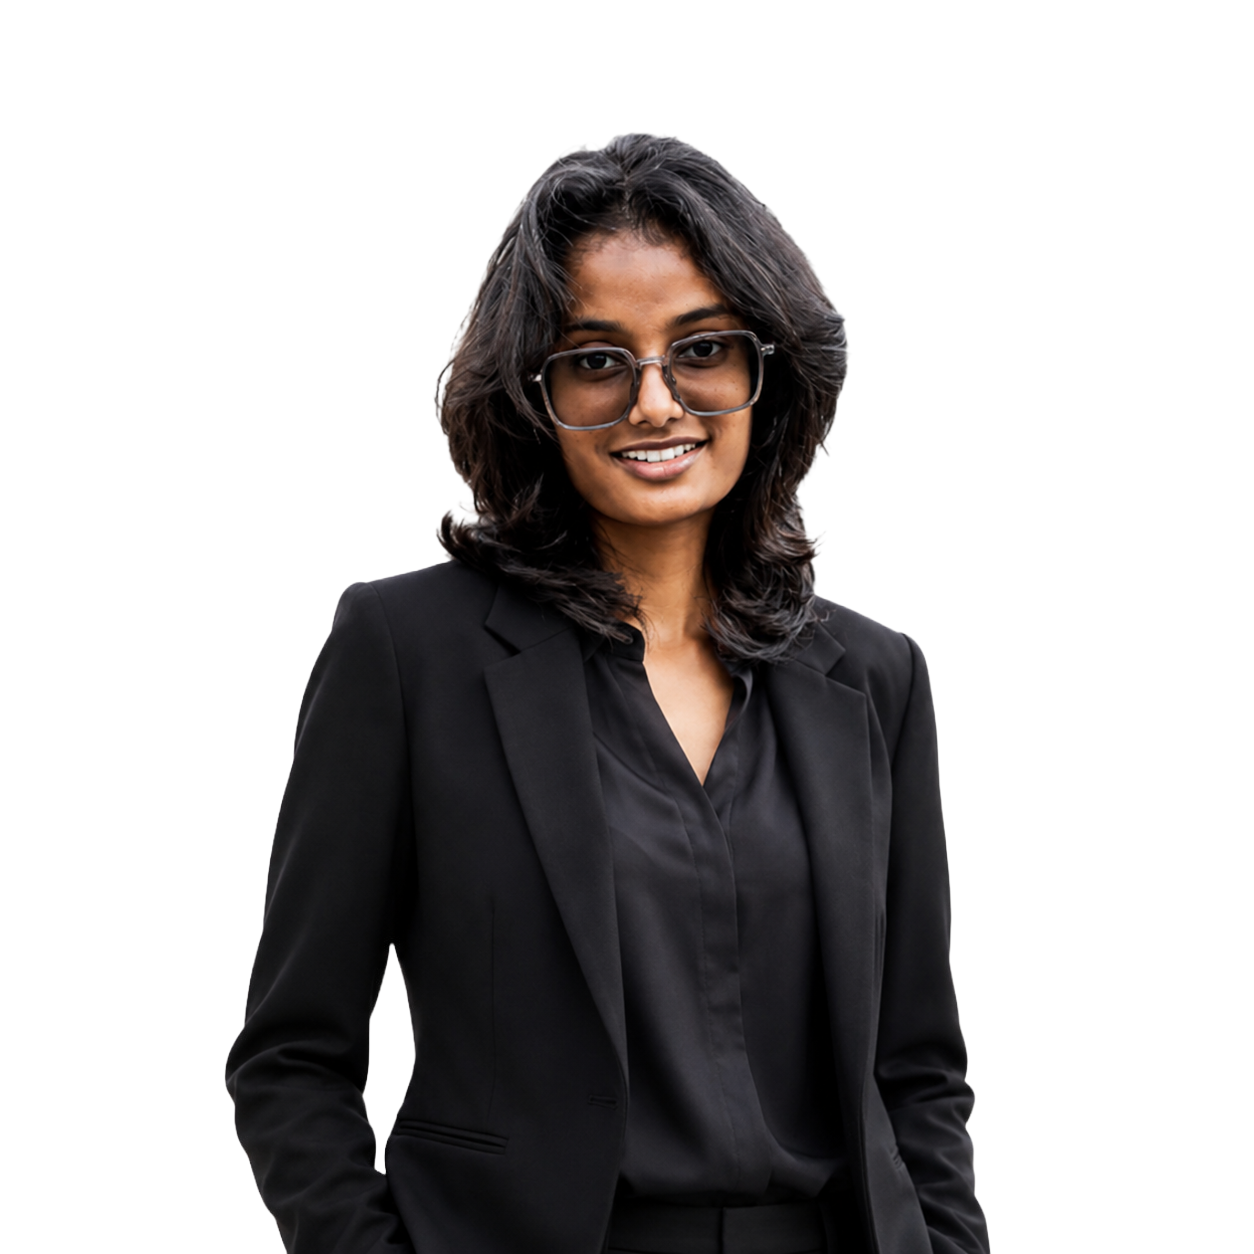
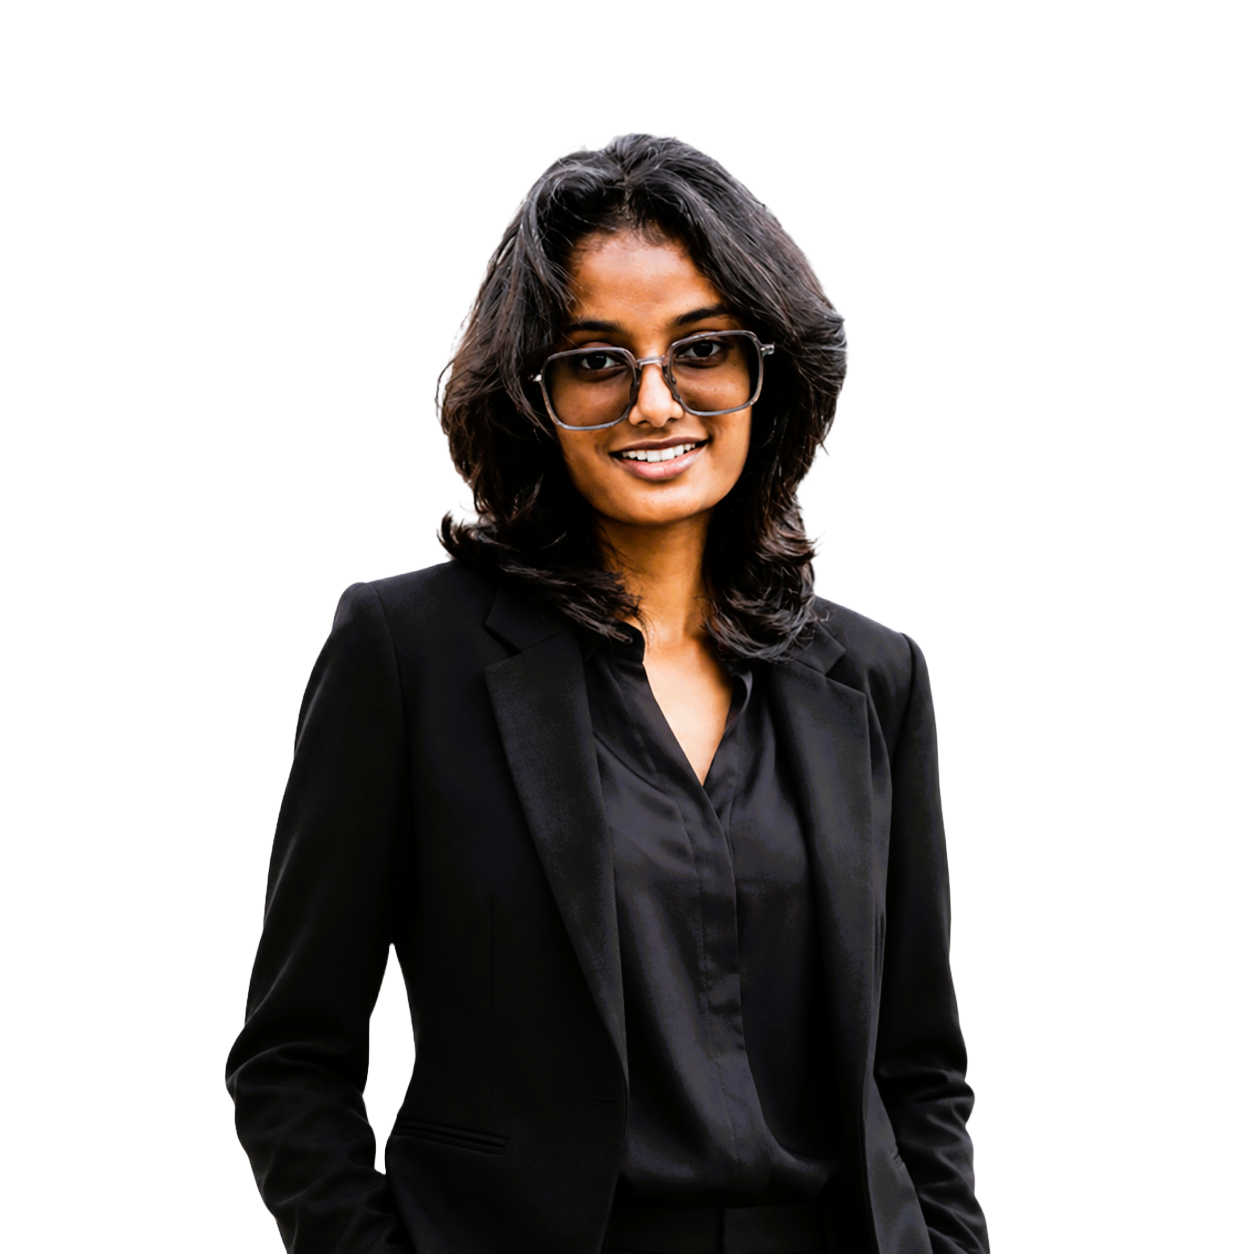
feat: added hero profile image animation

Changed region(s): [[0.4354, 0.1866, 0.622, 0.5287], [0.5598, 0.5287, 0.5909, 0.622]]

diff --git a/components/hero-section.tsx b/components/hero-section.tsx
@@ -34,7 +34,7 @@ export default function HeroSection() {
             className="block size-10 overflow-hidden rounded-full bg-lightgray"
           >
             <Image
-              src="/background_portfolio.jpeg"
+              src="/Adobe Express - file.png"
               alt=""
               width={40}
               height={40}
@@ -111,13 +111,13 @@ export default function HeroSection() {
           deferToPreloader
           className="relative lg:flex lg:h-full lg:items-center lg:justify-self-end"
         >
-          <div className="relative aspect-3/4 w-full max-w-md bg-lightgray p-5 md:p-7 lg:h-[calc(100dvh-12rem)] lg:w-auto lg:max-w-none">
+          <div className="group relative aspect-3/4 w-full max-w-md overflow-hidden bg-lightgray p-5 md:p-7 lg:h-[calc(100dvh-12rem)] lg:w-auto lg:max-w-none">
             <Image
               src="/Adobe Express - file.png"
               alt="Portrait of Senuthi Amarasinghe"
               fill
               sizes="(max-width: 1024px) 100vw, 40vw"
-              className="object-cover grayscale"
+              className="object-cover grayscale transition-all duration-700 ease-out group-hover:scale-105 group-hover:grayscale-0"
               priority
             />
           </div>

diff --git a/app/page.tsx b/app/page.tsx
@@ -57,11 +57,11 @@ export default function Home() {
           <div className="relative h-[70vh] w-full overflow-hidden bg-charcoal">
             <Parallax speed={0.2} className="absolute -top-[40%] left-0 h-[180%] w-full">
               <Image
-                src="/Adobe Express - file.png"
+                src="/background_portfolio.jpeg"
                 alt=""
                 fill
                 sizes="100vw"
-                className="object-cover grayscale"
+                className="object-cover"
               />
             </Parallax>
           </div>
